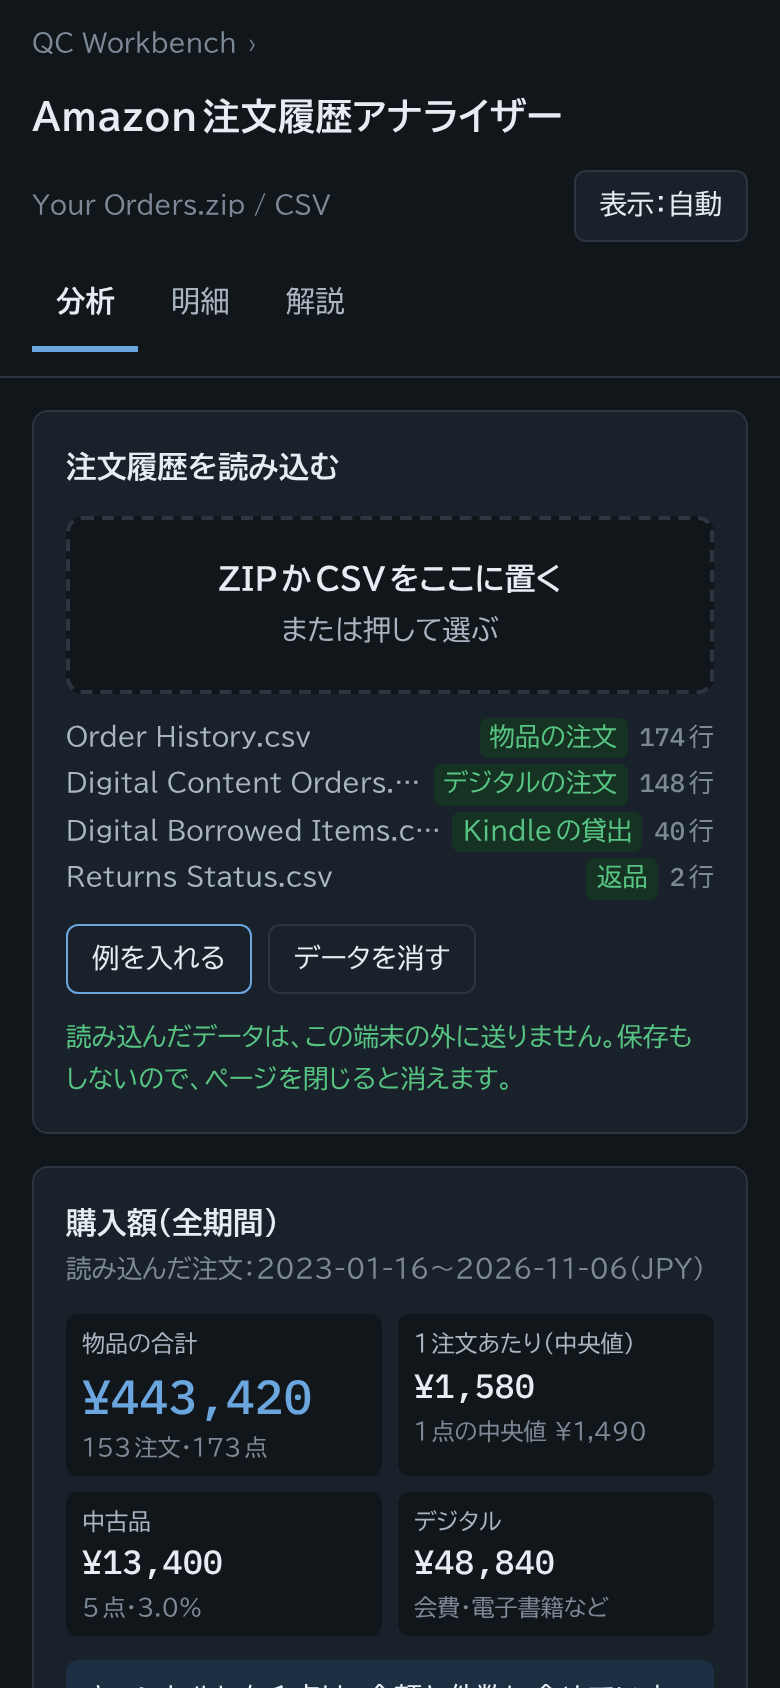
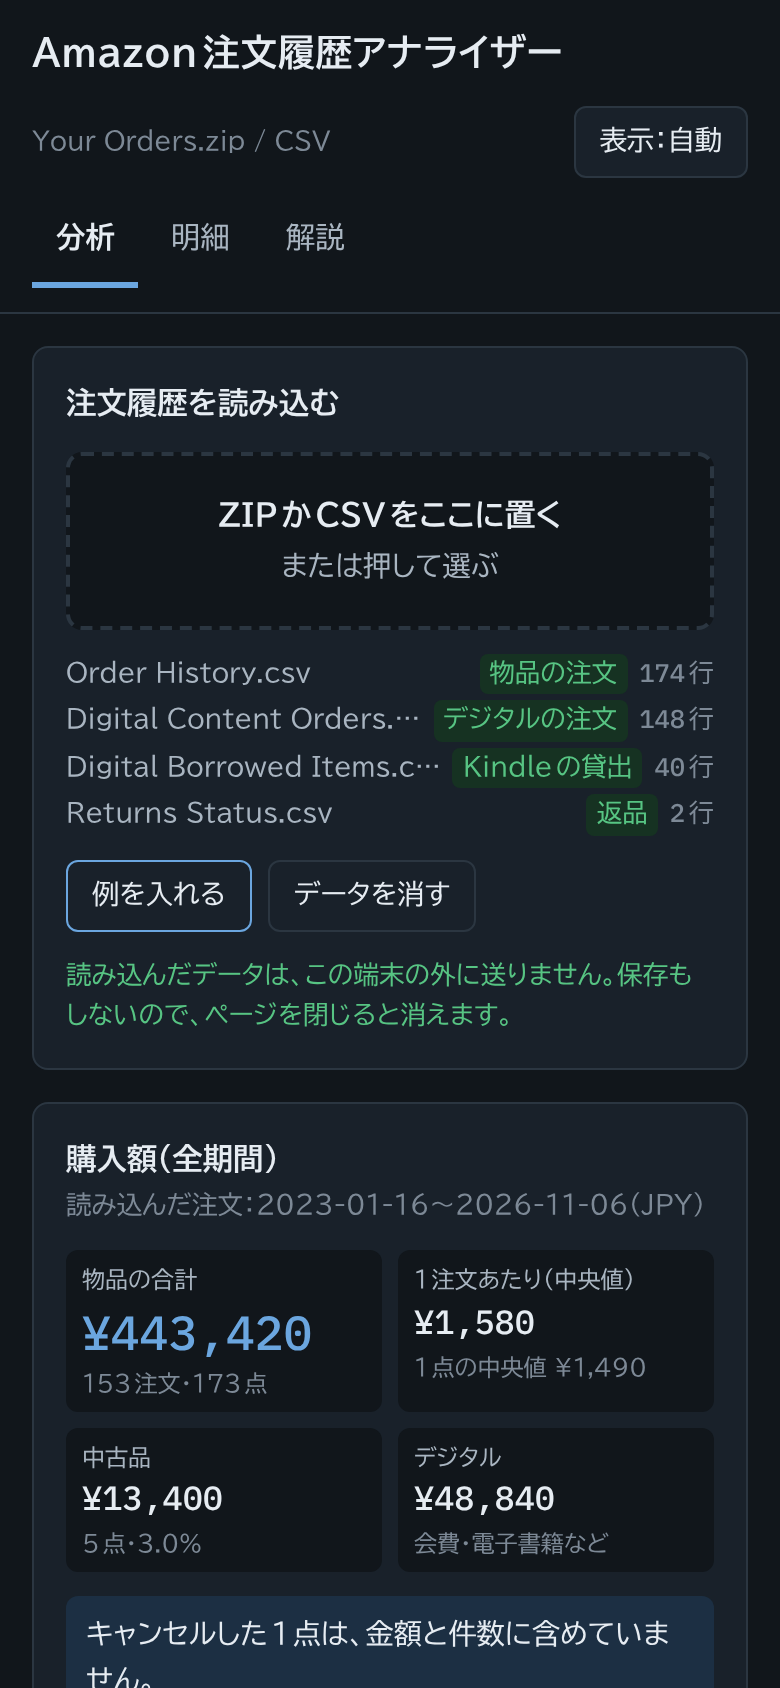
QC Workbench の表示を外す

diff --git a/index.html b/index.html
@@ -7,7 +7,6 @@
 <meta name="description" content="Amazonの「マイデータをリクエストする」で受け取った注文履歴のZIPを読み込み、年別・月別の購入額、カテゴリ、リピート購入、高額の買い物、注文する時間帯、プライム会費とKindleの貸出を集計。読み込みと集計はブラウザの中だけで行う">
 <link rel="canonical" href="https://kotaooka.github.io/amazon-order-analyzer/">
 <meta property="og:type" content="website">
-<meta property="og:site_name" content="QC Workbench">
 <meta property="og:title" content="Amazon注文履歴の分析ツール｜年別・カテゴリ・リピート・プライム会費">
 <meta property="og:description" content="Amazonの「マイデータをリクエストする」で受け取った注文履歴のZIPを読み込み、年別・月別の購入額、カテゴリ、リピート購入、高額の買い物、注文する時間帯、プライム会費とKindleの貸出を集計。読み込みと集計はブラウザの中だけで行う">
 <meta property="og:url" content="https://kotaooka.github.io/amazon-order-analyzer/">
@@ -230,7 +229,7 @@ table.list td.d { color: var(--ink2); }
 <header class="top">
   <div class="top-in">
     <div class="brand">
-      <a class="home" href="https://kotaooka.github.io/" title="QC Workbench（ツール一覧）へ戻る">QC Workbench</a><span class="crumb" aria-hidden="true">›</span><h1>Amazon注文履歴アナライザー</h1>
+      <h1>Amazon注文履歴アナライザー</h1>
       <span class="std">Your Orders.zip / CSV</span>
       <button class="btn theme" id="themeBtn" type="button" aria-label="表示テーマを切り替え">表示：自動</button>
     </div>

diff --git a/sw.js b/sw.js
@@ -1,6 +1,6 @@
 // Amazon注文履歴アナライザーの Service Worker
 // 公開ファイルを更新したら VERSION を上げる。古いキャッシュは activate 時に削除される
-const VERSION = 'v1.0.0';
+const VERSION = 'v1.0.1';
 const APP_CACHE = `amazon-order-analyzer-${VERSION}`;
 const FONT_CACHE = 'amazon-order-analyzer-fonts';
 

diff --git a/tools/screenshots.py b/tools/screenshots.py
@@ -64,8 +64,7 @@ with sync_playwright() as p:
     o.set_content(f"""<html><head><link rel="stylesheet" href="https://fonts.googleapis.com/css2?family=BIZ+UDPGothic:wght@400;700&family=IBM+Plex+Mono:wght@500">
       <style>svg text{{font-family:var(--f-num);font-size:10.5px;fill:var(--muted)}} .bar{{fill:var(--s1)}} .bar2{{fill:var(--s2)}} .gl{{stroke:var(--grid)}} .ax{{stroke:var(--line)}} .hit{{fill:transparent}} svg{{display:block;width:100%;height:auto}}</style></head>
       <body style="margin:0;width:1200px;height:630px;background:linear-gradient(#1d5c96,#1a5388);font-family:'BIZ UDPGothic';color:#fff;display:flex;align-items:center;gap:40px;padding:0 64px;box-sizing:border-box;{vars_css}">
-      <div style="flex:0 0 440px"><div style="font-size:26px;opacity:.85">QC Workbench</div>
-      <div style="font-size:46px;font-weight:700;line-height:1.3;margin:14px 0 22px">Amazon注文履歴<br>アナライザー</div>
+      <div style="flex:0 0 440px"><div style="font-size:46px;font-weight:700;line-height:1.3;margin:0 0 22px">Amazon注文履歴<br>アナライザー</div>
       <div style="font-size:24px;line-height:1.6;opacity:.92">注文履歴のZIPを読み込み、<br>いつ・何に・いくら使ったかを<br>ブラウザの中だけで集計</div></div>
       <div style="flex:1;background:#fff;border-radius:16px;padding:14px">{svg}</div></body></html>""")
     o.wait_for_load_state('networkidle'); o.evaluate("document.fonts.ready"); o.wait_for_timeout(300)
